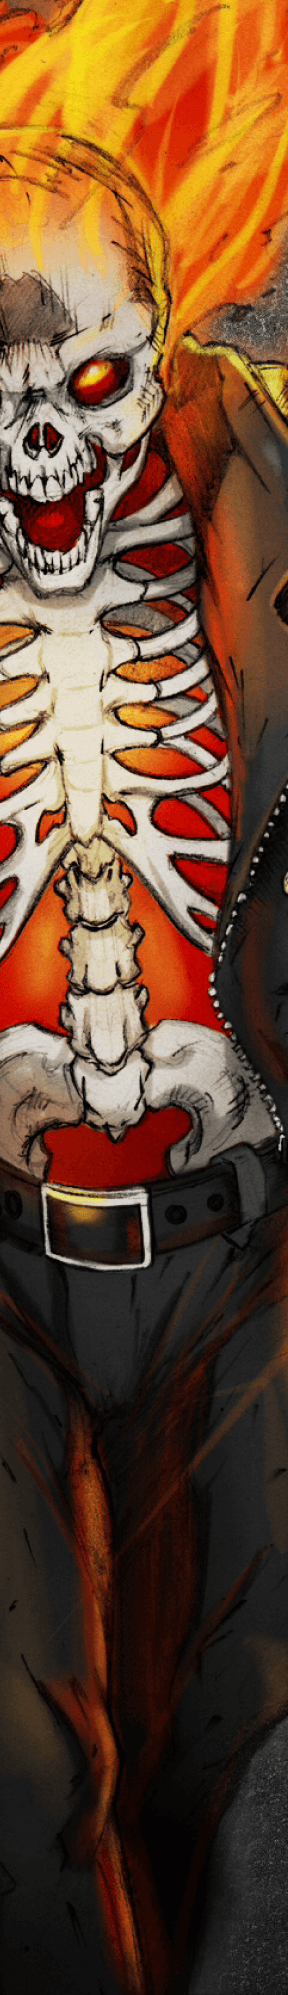
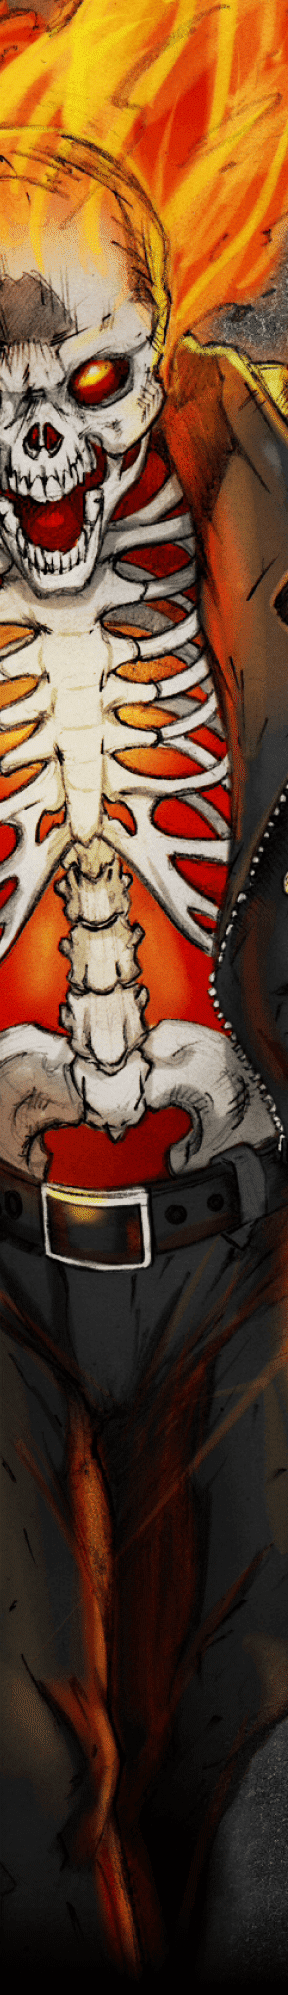
left Sub Menu, fix background

diff --git a/index.html b/index.html
@@ -60,6 +60,21 @@
                     </span>
                     <span class="menu-title">Categories</span>
                 </div>
+                <!-- Sub Menu Category -->
+                <span class="subMenuContainer">
+                    <div id="subMenuCategory" class="subMenu">
+                        <span class="menu-title">One Shots TPBs</span>
+                    </div>
+                    <div id="subMenuDCComics" class="subMenu">
+                        <span class="menu-title">DC Comics</span>
+                    </div>
+                    <div id="subMenuMarvelComics" class="subMenu">
+                        <span class="menu-title">Marvel Comics</span>
+                    </div>
+                    <div id="subMenuBoomStudios" class="subMenu">
+                        <span class="menu-title">Boom Studios</span>
+                    </div>
+                </span>
                 <!-- Status List -->
                 <div id="menuStatus" class="menu">
                     <svg
@@ -87,6 +102,8 @@
                     </span>
                     <span class="menu-title">Status</span>
                 </div>
+                <!-- Sub Menu Category -->
+                <span class="subMenuContainer"></span>
                 <!-- Year Release List -->
                 <div id="menuYearRelease" class="menu">
                     <svg
@@ -114,6 +131,8 @@
                     </span>
                     <span class="menu-title">Year Release</span>
                 </div>
+                <!-- Sub Menu Category -->
+                <span class="subMenuContainer"></span>
                 <!-- Type List -->
                 <div id="menuType" class="menu">
                     <svg
@@ -141,6 +160,8 @@
                     </span>
                     <span class="menu-title">Type</span>
                 </div>
+                <!-- Sub Menu Category -->
+                <span class="subMenuContainer"></span>
                 <!-- Author List -->
                 <div id="menuAuthor" class="menu">
                     <svg
@@ -169,6 +190,8 @@
                     <span class="menu-title">Author</span>
                 </div>
             </div>
+            <!-- Sub Menu Category -->
+            <span class="subMenuContainer"></span>
             <!-- Main Title Container -->
             <div class="main">
                 <!-- Search -->
@@ -208,9 +231,7 @@
 
                     <div id="titleCard" class="title-card">
                         <div id="titleImage" class="image"></div>
-                        <div id="title" class="title">
-                            Black Hole Repoasdas sdsdasd
-                        </div>
+                        <div id="title" class="title">Black Hole Repo</div>
                         <div class="category">Heavy Metal</div>
                     </div>
 

diff --git a/css/index/style.css b/css/index/style.css
@@ -8,10 +8,12 @@
 html,
 body {
   font-family: "Montserrat", sans-serif;
+  background: #000000;
 }
 
 #menuCategory {
   position: relative;
+  z-index: 10;
   cursor: pointer;
 }
 
@@ -68,23 +70,58 @@ body {
 }
 
 #menuStatus {
-  -webkit-transform: translateY(-40%);
-          transform: translateY(-40%);
+  -webkit-transform: translateY(-90%);
+          transform: translateY(-90%);
 }
 
 #menuYearRelease {
-  -webkit-transform: translateY(-80%);
-          transform: translateY(-80%);
+  -webkit-transform: translateY(-130%);
+          transform: translateY(-130%);
 }
 
 #menuType {
-  -webkit-transform: translateY(-120%);
-          transform: translateY(-120%);
+  -webkit-transform: translateY(-170%);
+          transform: translateY(-170%);
 }
 
 #menuAuthor {
-  -webkit-transform: translateY(-160%);
-          transform: translateY(-160%);
+  -webkit-transform: translateY(-210%);
+          transform: translateY(-210%);
+}
+
+.subMenuContainer .subMenu {
+  display: -webkit-box;
+  display: -ms-flexbox;
+  display: flex;
+  -webkit-box-pack: center;
+      -ms-flex-pack: center;
+          justify-content: center;
+  -webkit-box-align: start;
+      -ms-flex-align: start;
+          align-items: flex-start;
+  -webkit-box-orient: vertical;
+  -webkit-box-direction: normal;
+      -ms-flex-direction: column;
+          flex-direction: column;
+  width: 100%;
+  background: #5b596a;
+  z-index: 2;
+  margin-bottom: 1px;
+  padding: 4% 4% 4% 20%;
+  -webkit-transform: translateY(-100%);
+          transform: translateY(-100%);
+}
+
+.subMenuContainer .subMenu .menu-title {
+  color: #f4f4f4;
+  font-size: 1.5vw;
+  font-weight: bold;
+}
+
+.subMenuContainer .subMenu:last-child {
+  -webkit-transform: translateY(-50%);
+          transform: translateY(-50%);
+  padding: 4% 4% 20% 20%;
 }
 
 .main {
@@ -308,7 +345,7 @@ body {
   right: 28px;
   bottom: 39px;
   z-index: 1;
-  height: 265vh;
+  min-height: 265vh;
   background: rgba(32, 33, 54, 0.9);
   border-radius: 3.5vw;
   overflow: hidden;

diff --git a/css/index/_left.scss b/css/index/_left.scss
@@ -1,5 +1,6 @@
 #menuCategory {
     position: relative;
+    z-index: 10;
     cursor: pointer;
     .icon {
         position: absolute;
@@ -19,7 +20,7 @@
         font-size: 2vw;
     }
 }
-
+//Categories
 #menuAuthor,
 #menuType,
 #menuYearRelease,
@@ -47,18 +48,58 @@
     }
 }
 
-#menuStatus {
-    transform: translateY(-40%);
-}
+//Closed
+// #menuStatus {
+//     transform: translateY(-40%);
+// }
 
+// #menuYearRelease {
+//     transform: translateY(-80%);
+// }
+
+// #menuType {
+//     transform: translateY(-120%);
+// }
+
+// #menuAuthor {
+//     transform: translateY(-160%);
+// }
+
+//Open Categories
+#menuStatus {
+    transform: translateY(-90%);
+}
 #menuYearRelease {
-    transform: translateY(-80%);
+    transform: translateY(-130%);
 }
 
 #menuType {
-    transform: translateY(-120%);
+    transform: translateY(-170%);
 }
 
 #menuAuthor {
-    transform: translateY(-160%);
+    transform: translateY(-210%);
+}
+
+//SubMenu
+.subMenuContainer {
+    .subMenu {
+        @include flex(center, flex-start, column);
+        width: 100%;
+        background: #5b596a;
+        z-index: 2;
+        margin-bottom: 1px;
+        padding: 4% 4% 4% 20%;
+        transform: translateY(-100%);
+        .menu-title {
+            color: #f4f4f4;
+            font-size: 1.5vw;
+            font-weight: bold;
+        }
+    }
+
+    .subMenu:last-child {
+        transform: translateY(-50%);
+        padding: 4% 4% 20% 20%;
+    }
 }

diff --git a/css/index/style.scss b/css/index/style.scss
@@ -51,7 +51,7 @@ $windowHeight: 276vh;
     right: 28px;
     bottom: 39px;
     z-index: 1;
-    height: 265vh;
+    min-height: 265vh;
     background: rgba(32, 33, 54, 0.9);
     border-radius: 3.5vw;
     overflow: hidden;

diff --git a/css/index/_global.scss b/css/index/_global.scss
@@ -8,4 +8,5 @@
 html,
 body {
     font-family: "Montserrat", sans-serif;
+    background: #000000;
 }
